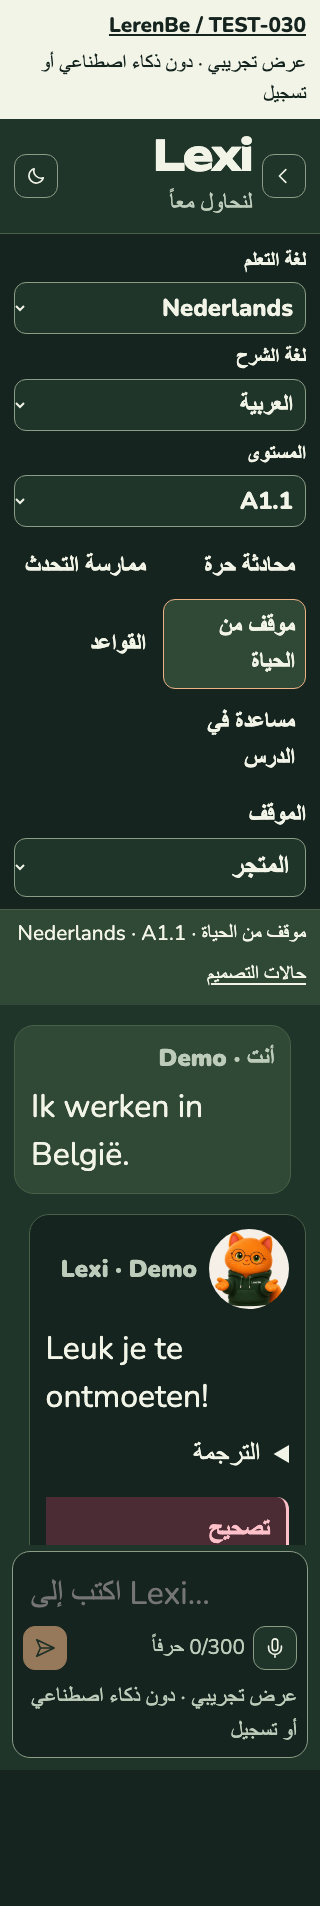
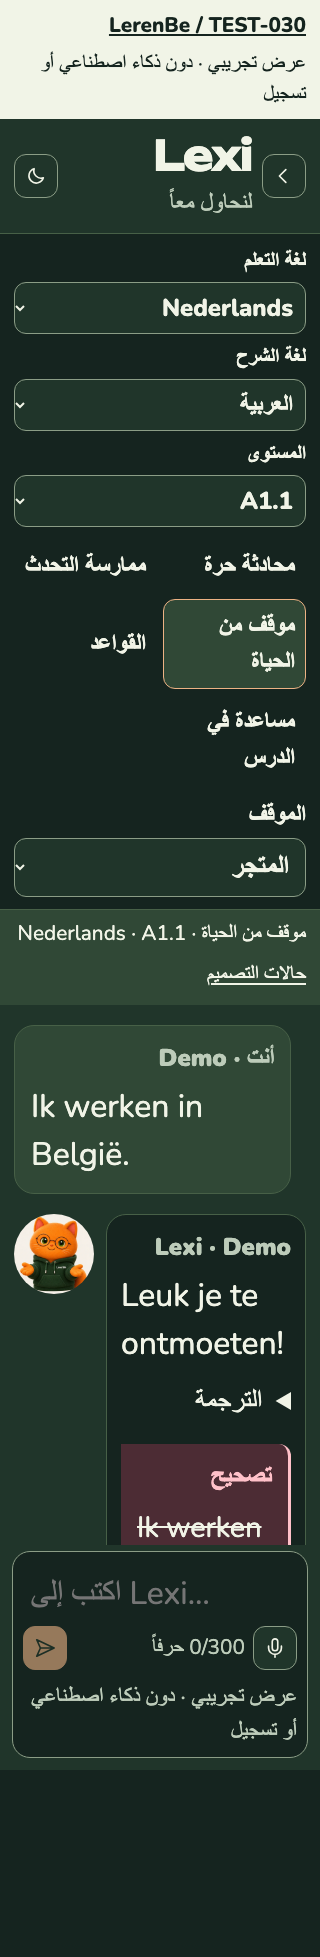
Place Lexi beside replies and refresh cached prototype assets

diff --git a/design-lab/test-030/lexi/chat.js b/design-lab/test-030/lexi/chat.js
@@ -13,7 +13,12 @@ export function mountLexiChat(root,{engine,voice=null,demo=false,initial={},cont
  function feedback(result){if(result.kind==='ask')return `<p dir="auto">${escape(result.answer)}</p>${(result.examples||[]).slice(0,3).map(e=>`<blockquote><small>${escape(t().example)}</small><p lang="${escape(e.lang)}" dir="ltr">${escape(e.text)}</p><p dir="auto">${escape(e.translation)}</p></blockquote>`).join('')}`;
  const correction=result.correction&&style()!=='talk'?`<section class="ai-fix"><strong>${escape(t().corrected)}</strong><del lang="${s.target}" dir="ltr">${escape(result.correction.original)}</del><b lang="${s.target}" dir="ltr">${escape(result.correction.corrected)}</b><p dir="auto">${escape(result.correction.explanation)}</p></section>`:'';
  return `<p lang="${s.target}" dir="ltr">${escape(result.reply)}</p>${result.translation?`<details><summary>${escape(t().translation)}</summary><p dir="auto">${escape(result.translation)}</p></details>`:''}${correction}`}
- function transcript(){return s.messages.map((m,i)=>`<article class="g-bub ${m.role==='user'?'me':'them'}">${m.role==='assistant'?`<div class="assistant-identity">${avatar('message-avatar',({correct:'success',incorrect:'encourage'})[m.result.verdict]||'speaking')}<span class="author">Lexi ${demo?'· Demo':''}</span></div>`:`<span class="author">${escape(t().you)} ${demo?'· Demo':''}</span>`}${m.role==='user'?`<p dir="auto">${escape(m.content)}</p>`:feedback(m.result)}${m.role==='assistant'?btn('speak',t().play,'sound','message-voice',s.busy)+`<span class="sr">${i}</span>`:''}</article>`).join('')}
+ function transcript(){return s.messages.map((m,i)=>{
+  if(m.role==='user')return `<article class="g-bub me"><span class="author">${escape(t().you)} ${demo?'· Demo':''}</span><p dir="auto">${escape(m.content)}</p></article>`;
+  const emotion=({correct:'success',incorrect:'encourage'})[m.result.verdict]||'speaking';
+  return `<div class="assistant-row">${avatar('message-avatar',emotion)}<article class="g-bub them" dir="${s.ui==='ar'?'rtl':'ltr'}"><span class="author">Lexi ${demo?'· Demo':''}</span>${feedback(m.result)}${btn('speak',t().play,'sound','message-voice',s.busy)}<span class="sr">${i}</span></article></div>`;
+ }).join('')}
+
  function errorPanel(){if(!s.error)return'';const code=s.error.code,waiting=s.until>Date.now(),retry=errorPolicy[code]===true;return `<section class="error-panel st-fb bad ${['offline','beta','unavailable'].includes(code)?'lexi-off':''}" role="${['offline','beta','unavailable'].includes(code)?'status':'alert'}"><div>${svg('error')}<h2>${escape(engine.message(code,s.ui))}</h2></div>${code==='slow'?`<p>${escape(t().wait)} ${Math.max(0,Math.ceil((s.until-Date.now())/1000))} s</p>`:''}${code==='limit'&&s.error.wait?.at?`<p>${escape(t().limit)} <time>${escape(new Date(s.error.wait.at).toLocaleString(s.ui==='uk'?'uk-UA':s.ui))}</time></p>`:''}${s.pending?`<p>${escape(t().pending)}</p>`:''}<div class="error-actions">${retry&&s.pending?btn('retry',t().retry,'','primary',waiting||s.busy):''}${s.pending?btn('edit',t().edit)+btn('cancel',t().cancel):''}</div></section>`}
  function render(){if(disposed)return;const focused=root.contains(document.activeElement)?document.activeElement:null,key=focused?.name?`[name="${focused.name}"]`:focused?.dataset.action?`[data-action="${focused.dataset.action}"]`:focused?.dataset.scenario?`[data-scenario="${focused.dataset.scenario}"]`:null,selection=focused?.name==='draft'?[focused.selectionStart,focused.selectionEnd]:null;const oldLog=root.querySelector('.chat-log'),oldScroll=oldLog?.scrollTop||0;
  document.documentElement.lang=s.ui;document.documentElement.dir=s.ui==='ar'?'rtl':'ltr';document.documentElement.dataset.theme=s.theme;

diff --git a/design-lab/test-030/lexi/index.html b/design-lab/test-030/lexi/index.html
@@ -1,1 +1,1 @@
-<!doctype html><html lang="uk" data-theme="light"><head><meta charset="utf-8"><meta name="viewport" content="width=device-width,initial-scale=1,viewport-fit=cover"><meta name="robots" content="noindex,nofollow"><meta http-equiv="Content-Security-Policy" content="default-src 'self'; script-src 'self'; style-src 'self'; img-src 'self'; font-src 'self'; connect-src 'none'; media-src 'none'; object-src 'none'; base-uri 'none'; form-action 'none'"><title>Lexi · Gamified Belgium · Contract-ready design</title><link rel="stylesheet" href="../tokens.css"><link rel="stylesheet" href="chat.css"><script type="module" src="demo.js"></script></head><body><div id="lexiRoot"></div></body></html>
+<!doctype html><html lang="uk" data-theme="light"><head><meta charset="utf-8"><meta name="viewport" content="width=device-width,initial-scale=1,viewport-fit=cover"><meta name="robots" content="noindex,nofollow"><meta http-equiv="Content-Security-Policy" content="default-src 'self'; script-src 'self'; style-src 'self'; img-src 'self'; font-src 'self'; connect-src 'none'; media-src 'none'; object-src 'none'; base-uri 'none'; form-action 'none'"><title>Lexi · Gamified Belgium · Contract-ready design</title><link rel="stylesheet" href="../tokens.css"><link rel="stylesheet" href="chat.css?v=avatar-left-2"><script type="module" src="demo.js?v=avatar-left-2"></script></head><body><div id="lexiRoot"></div></body></html>

diff --git a/design-lab/test-030/lexi/chat.css b/design-lab/test-030/lexi/chat.css
@@ -4,7 +4,8 @@
 @media(max-width:359px){.settings{grid-template-columns:minmax(0,1fr)}.settings label:last-child select{max-width:none}}
 .chat-log:has(>.live-state):not(:has(.g-bub)){display:grid;align-content:center;justify-content:center}.chat-log:has(>.live-state):not(:has(.g-bub)) .avatar{width:120px;height:120px}
 
-/* Lexi remains visibly present alongside each reply, not only in the page header. */
-.assistant-identity{display:flex;align-items:center;gap:16px;margin-bottom:16px;flex-wrap:wrap}.assistant-identity .author{margin:0}.avatar.message-avatar{width:112px;height:112px;margin:0}.assistant-identity .author{min-width:0;overflow-wrap:anywhere}
-@media(max-width:767px){.avatar.message-avatar{width:88px;height:88px}.assistant-identity{gap:12px}}
-@media(max-width:359px){.avatar.message-avatar{width:80px;height:80px}}
+/* The character sits beside its reply and stays alongside long messages. */
+.assistant-row{display:flex;align-items:flex-start;gap:16px;max-width:100%;margin-bottom:20px;direction:ltr}
+.assistant-row .g-bub.them{min-width:0;max-width:calc(100% - 128px);margin:0}
+.avatar.message-avatar{width:112px;height:112px;margin:0;position:sticky;top:0;flex-shrink:0}
+@media(max-width:767px){.assistant-row{gap:12px}.avatar.message-avatar{width:80px;height:80px}.assistant-row .g-bub.them{max-width:calc(100% - 92px);padding:14px}}

diff --git a/design-lab/test-030/lexi/demo.js b/design-lab/test-030/lexi/demo.js
@@ -1,4 +1,4 @@
-import{mountLexiChat}from'./chat.js';import{createDemoEngine}from'./mock.js';
+import{mountLexiChat}from'./chat.js?v=avatar-left-2';import{createDemoEngine}from'./mock.js';
 const q=new URLSearchParams(location.search),pick=(key,values,fallback)=>values.includes(q.get(key))?q.get(key):fallback;
 const chat=mountLexiChat(document.getElementById('lexiRoot'),{engine:createDemoEngine(),demo:true,initial:{theme:pick('theme',['light','dark'],'light'),ui:pick('ui',['uk','en','fr','ar'],'uk'),target:pick('target',['nl','fr','en'],'nl'),level:pick('level',['a11','a12','a21'],'a11')}});
 if(q.has('state'))chat.preview(pick('state',['welcome','listening','thinking','speaking','correct','incorrect','offline','error','idle'],'welcome'),pick('code',['offline','beta','unavailable','timeout','network','slow','limit','refusal','off','format','tooLong','empty'],'network'));

diff --git a/TESTING-JOURNAL.md b/TESTING-JOURNAL.md
@@ -390,3 +390,10 @@ Total output lines: 142
 - Кожна відповідь Lexi тепер має помітний аватар біля імені: 112px desktop, 88px mobile / 80px на 320px; success/encourage/speaking відповідно до результату конкретної відповіді. Під час подальшої розмови емоція попередньої репліки не залежить від загального поточного стану.
 - Зміни тільки presenter/CSS/tests/screenshots/docs у design-lab; engine API, AI-алгоритми та production незмінні. Додано regression: після відправлення тексту і в correct/incorrect/idle Lexi видимий у відповіді на всіх восьми ширинах у двох темах, розмір ≥80px. 144 layout / 24 zoom / 14 interaction groups запускаються повторно, результат CI у PR #15.
 - Повтор gallery-check спочатку не стартував через зупинений localhost:8279 (ERR_CONNECTION_REFUSED); після запуску локального сервера перевірка пройшла. Це обмеження тестового середовища, не збій інтерфейсу.
+
+## TEST-030 · Owner refinement: avatar left of reply · 2026-11-18 (Europe/Brussels)
+
+- Власник уточнив розташування: аватар зліва від повідомлення або в позначеній зоні картки. Обрано ліву позицію: окремий assistant-row, аватар 112px desktop / 80px mobile, бульбашка справа. Аватар тримається поруч із довгою відповіддю при прокручуванні; мовний контент зберігає власний LTR/RTL.
+- На скриншоті власника була версія без попереднього аватара. Причину кешування не видаємо за доведену: HTML тепер посилається на версіоновані CSS/entry module, entry — на версіонований presenter, щоб оновлення не залежало від старого браузерного кешу.
+- Regression перевіряє не лише visibility/≥80px, а й фактичну геометрію: правий край аватара не перетинає лівий край бульбашки. Матриця 144/24/14 і скриншоти оновлюються. Engine/Worker/app/production незмінні; PR Draft без merge.
+- Після уточнення пройшли 144 layout / 24 zoom / 15 interaction groups. Додано окремий тест довгої відповіді: при прокрутці аватар залишається у видимій області поруч із нею. Тестовий actual-engine browser тепер завантажує сторінку без demo-entry, щоб не монтувати два view в один root. Новий screenshot long-reply-avatar-390.png.

diff --git a/docs/design/test-030/contract-ready/README.md b/docs/design/test-030/contract-ready/README.md
@@ -64,7 +64,7 @@ view.destroy();
 - 144 комбінації: 8 ширин × 2 теми × 9 контрактних станів.
 - 24 перевірки тексту 200%: 4 мови пояснення × 2 теми × welcome/incorrect/error на 320px.
 - Touch 44×44, assets, horizontal overflow, JavaScript errors, external requests.
-- 14 interaction-груп, включно з незміненим реальним TEST-031 engine у тестовому контексті та підставним `LerenAICoach.request`: signature/char/level, `work→werk`, приховане talk-виправлення й видиме teacher-виправлення.
+- 15 interaction-груп, включно з незміненим реальним TEST-031 engine у тестовому контексті та підставним `LerenAICoach.request`: signature/char/level, `work→werk`, приховане talk-виправлення й видиме teacher-виправлення.
 - Engine source читається через `git show` за точним SHA тільки для тесту. Ізоляція fixture не є перевіркою live Worker/API.
 - Скриншоти: `screenshots/test-030/contract-ready` — усі стани на 390/1440, welcome також 320/768, AR RTL із текстом 200%.
 
@@ -75,3 +75,7 @@ view.destroy();
 Загальний дизайн, зручність, подача повідомлень та стани затверджені. Зауваження «коли спілкуюсь із Lexi, я його не бачу» виправлено: у кожній відповіді є помітний аватар із відповідною емоцією (112px desktop, 88px mobile, 80px на 320px). Фокус на співрозмовнику збережено після зникнення welcome-екрана. Покрито регресійною перевіркою видимості та розміру аватара після справжнього надсилання mock-повідомлення й у correct/incorrect/idle.
 
 Затвердження дизайну не є дозволом на злиття PR, підключення production або зміну AI-рушія.
+
+### Уточнення розташування · 2026-11-18
+
+Аватар винесено **зліва від бульбашки**, а не всередину її заголовка: 112px desktop, 80px mobile. Для довгої відповіді він залишається поруч під час прокрутки в межах її рядка. Тест перевіряє ліве розташування геометрично у correct/incorrect/idle на всіх ширинах і темах. CSS/entry/presenter отримали узгоджену версію `avatar-left-2`, щоб браузер завантажував оновлену композицію.

diff --git a/PRODUCTION-TRANSFER.md b/PRODUCTION-TRANSFER.md
@@ -182,3 +182,4 @@
 Не копіювати mock fixture в app і не переносити заготовлений lesson context як справжній. Host має передати реальний context і зберегти TEST-031 gameDone/XP/consent/memory hooks поза view. Майбутнє підключення потребує Worker 2026-11-18-lexi-v1 за порядком Claude; цей експеримент не змінює й не розгортає Worker/Firebase/Cloudflare. Наявний Lexi TEST-030 збережено без генерації нового образу. Інтеграція в app/ і будь-який production transfer потребують окремого погодження.
 
 - 2026-11-18: власник затвердив дизайн/UX TEST-030 з правкою видимості Lexi в розмові. У lab додано помітний емоційний аватар до кожної відповіді. Це не погодження app integration, merge або production transfer; engine/Worker/Firebase лишаються незмінними.
+- Уточнення 2026-11-18: остаточна позиція аватара в lab — зліва від бульбашки; версіоновані entry/CSS/presenter забезпечують оновлення прототипу в браузері. Engine contract не змінено.
